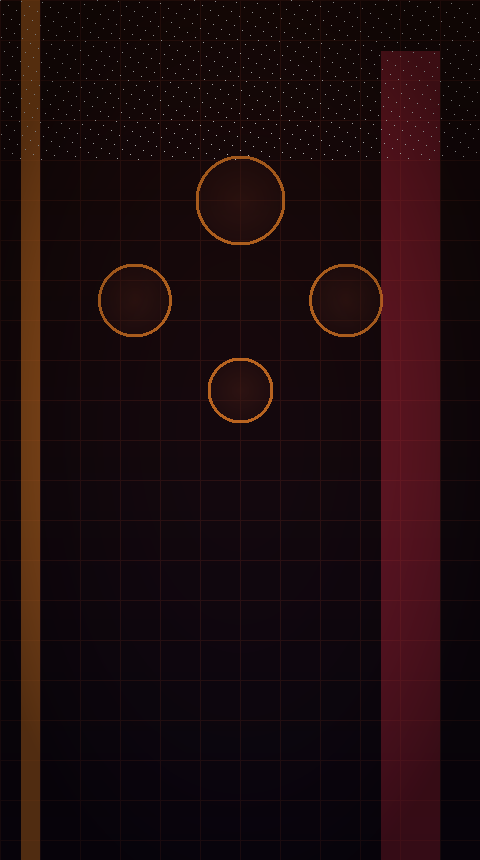
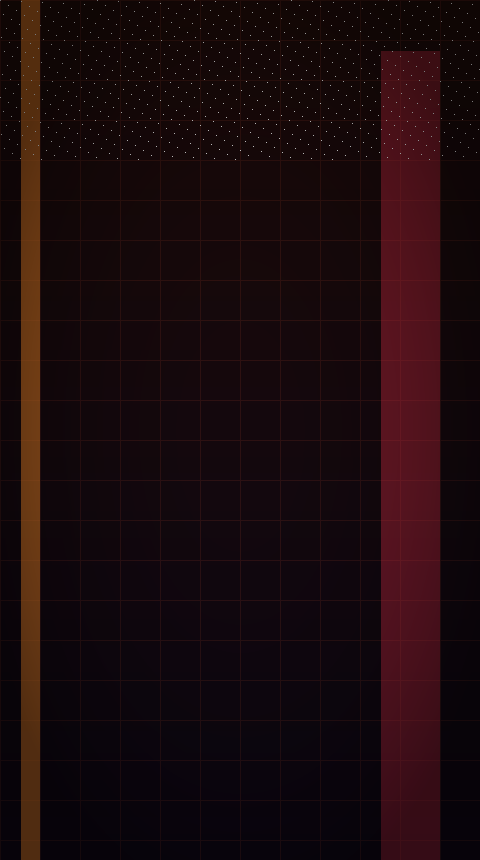
sync: pinball publish set

diff --git a/pinball v2/scripts/generate-assets.js b/pinball v2/scripts/generate-assets.js
@@ -117,27 +117,6 @@ function genPlayfield(themeId, palette) {
       b = mix(b, palette.neonB[2], 0.35);
     }
 
-    // bumper pads (visual only)
-    var pads = [
-      [w * 0.5, 200, 42],
-      [w * 0.28, 300, 34],
-      [w * 0.72, 300, 34],
-      [w * 0.5, 390, 30]
-    ];
-    for (var i = 0; i < pads.length; i++) {
-      var p = pads[i];
-      var d = dist(x, y, p[0], p[1]);
-      if (d < p[2]) {
-        var t = 1 - d / p[2];
-        r = mix(r, palette.pad[0], 0.25 + t * 0.35);
-        g = mix(g, palette.pad[1], 0.25 + t * 0.35);
-        b = mix(b, palette.pad[2], 0.25 + t * 0.35);
-      } else if (d < p[2] + 3) {
-        r = mix(r, palette.neonA[0], 0.7);
-        g = mix(g, palette.neonA[1], 0.7);
-        b = mix(b, palette.neonA[2], 0.7);
-      }
-    }
 
     // top starfield
     if (y < 160 && ((x * 17 + y * 31) % 97) === 0) {
